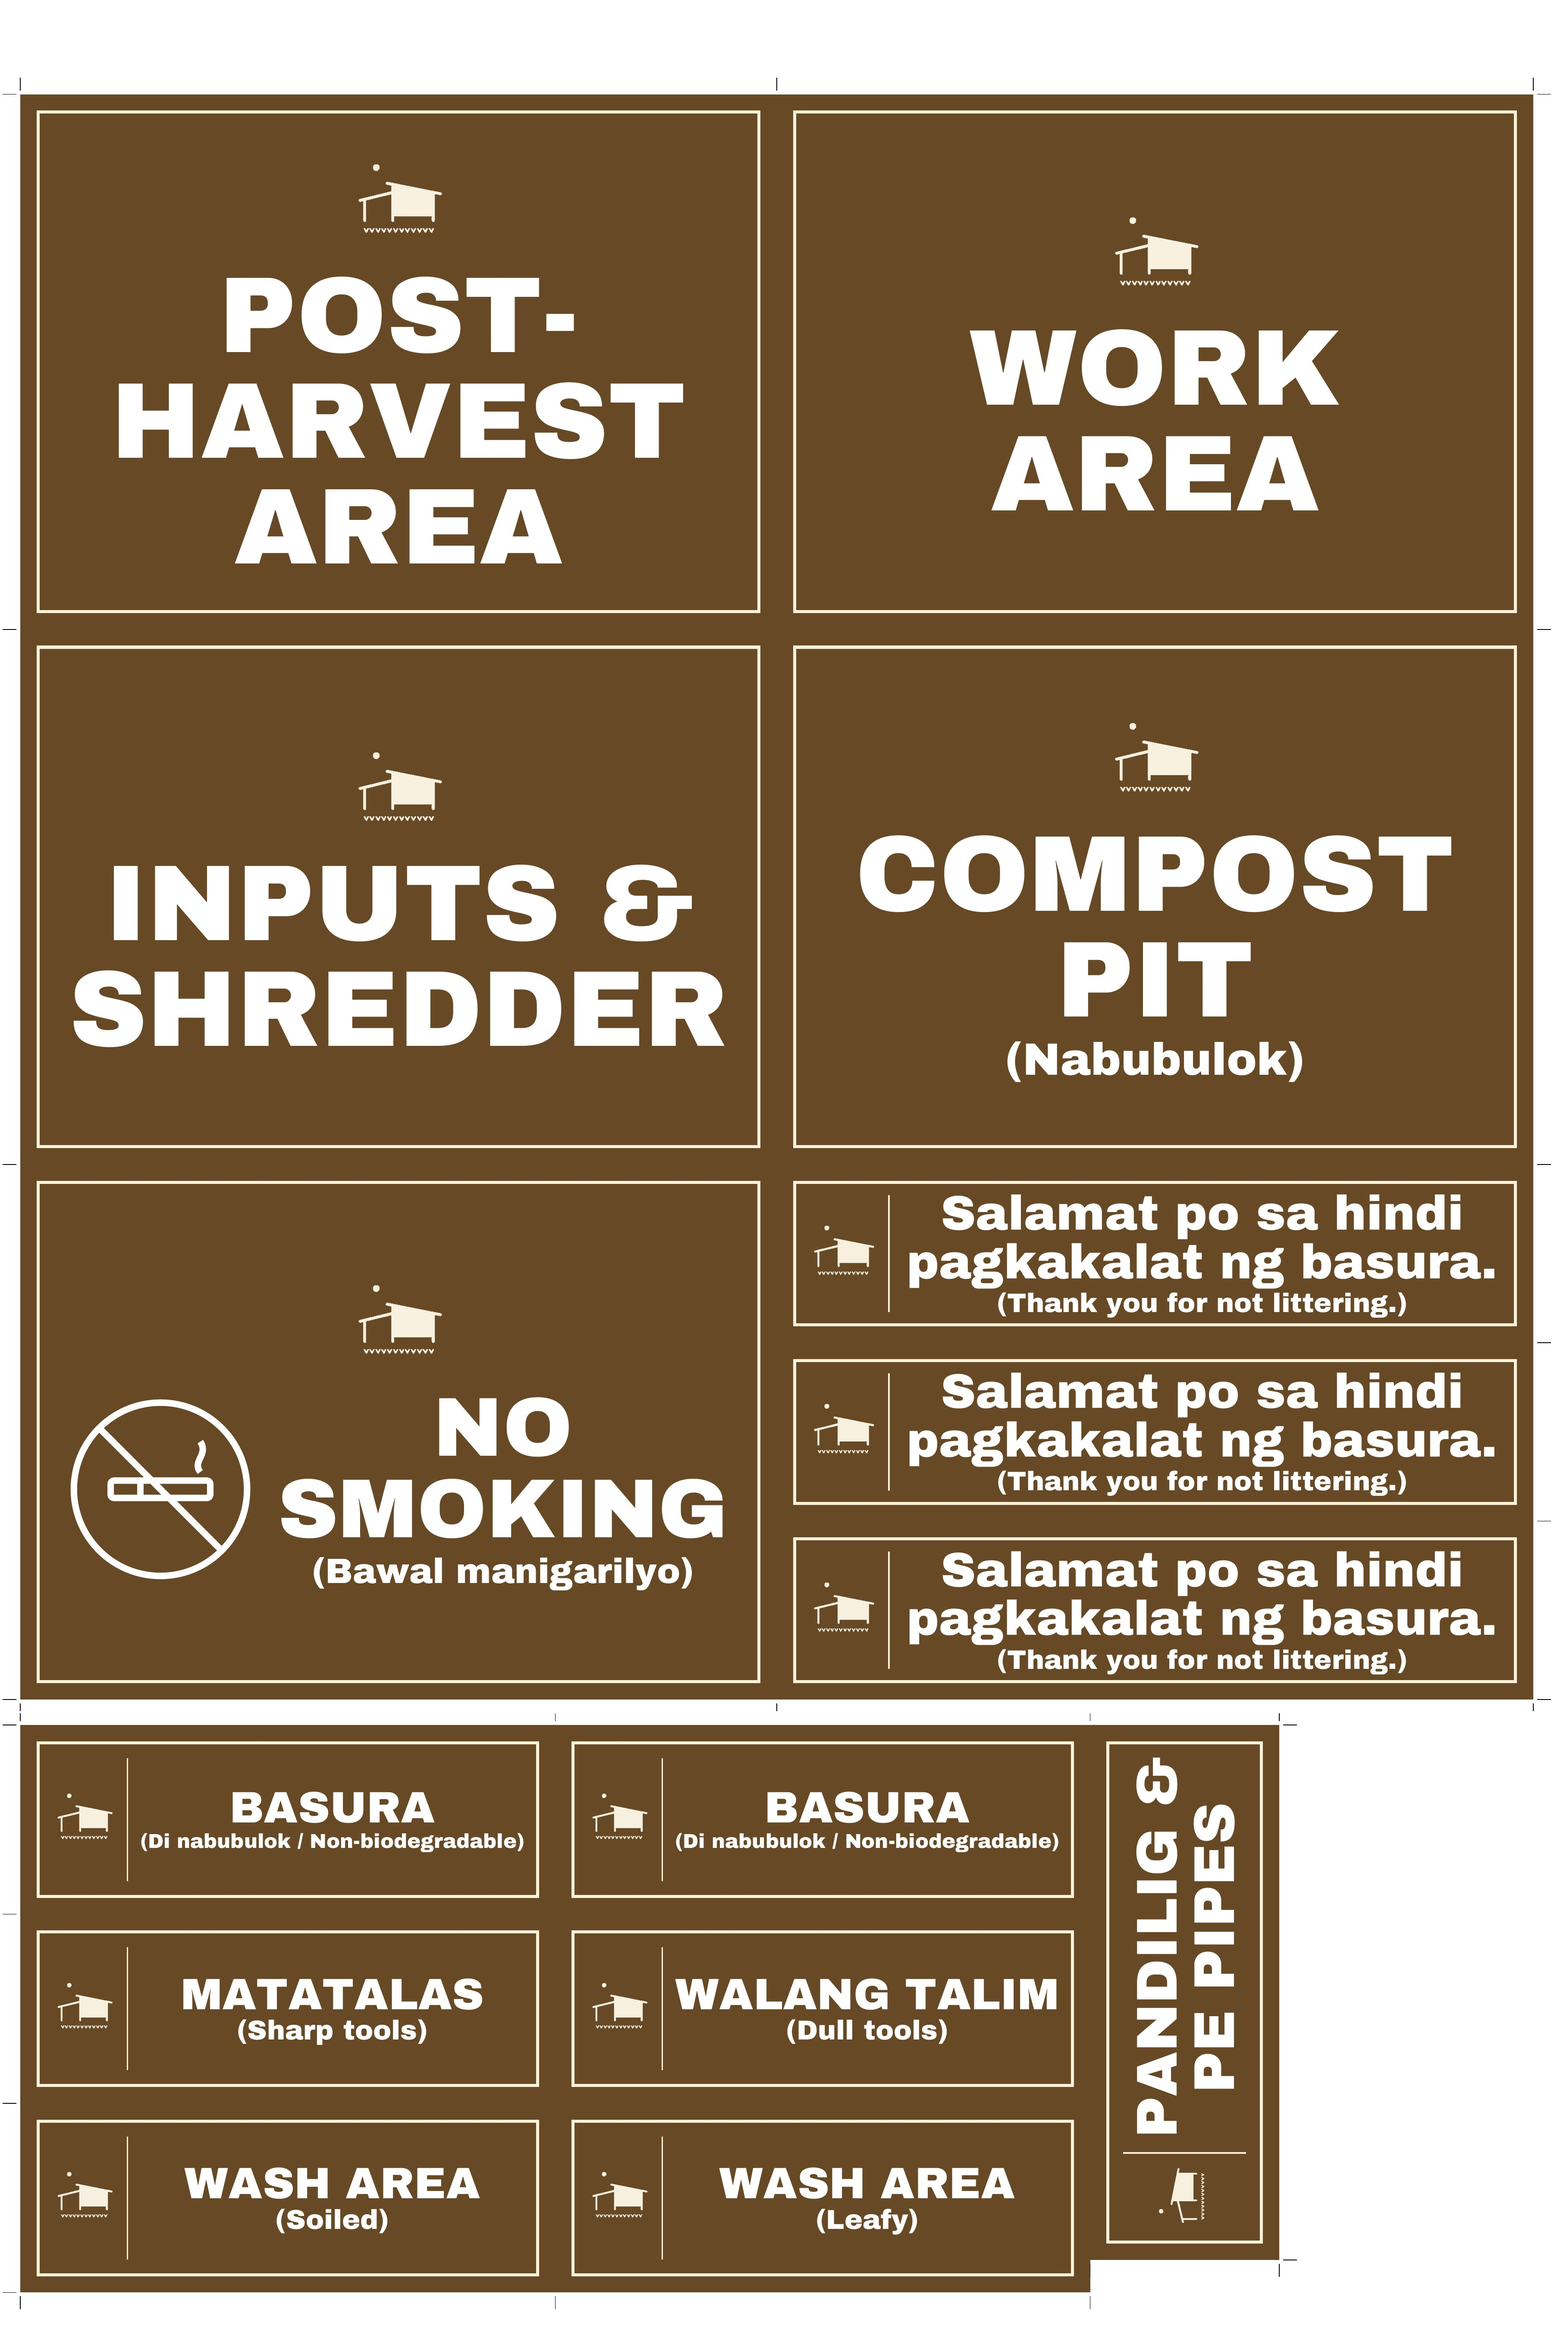
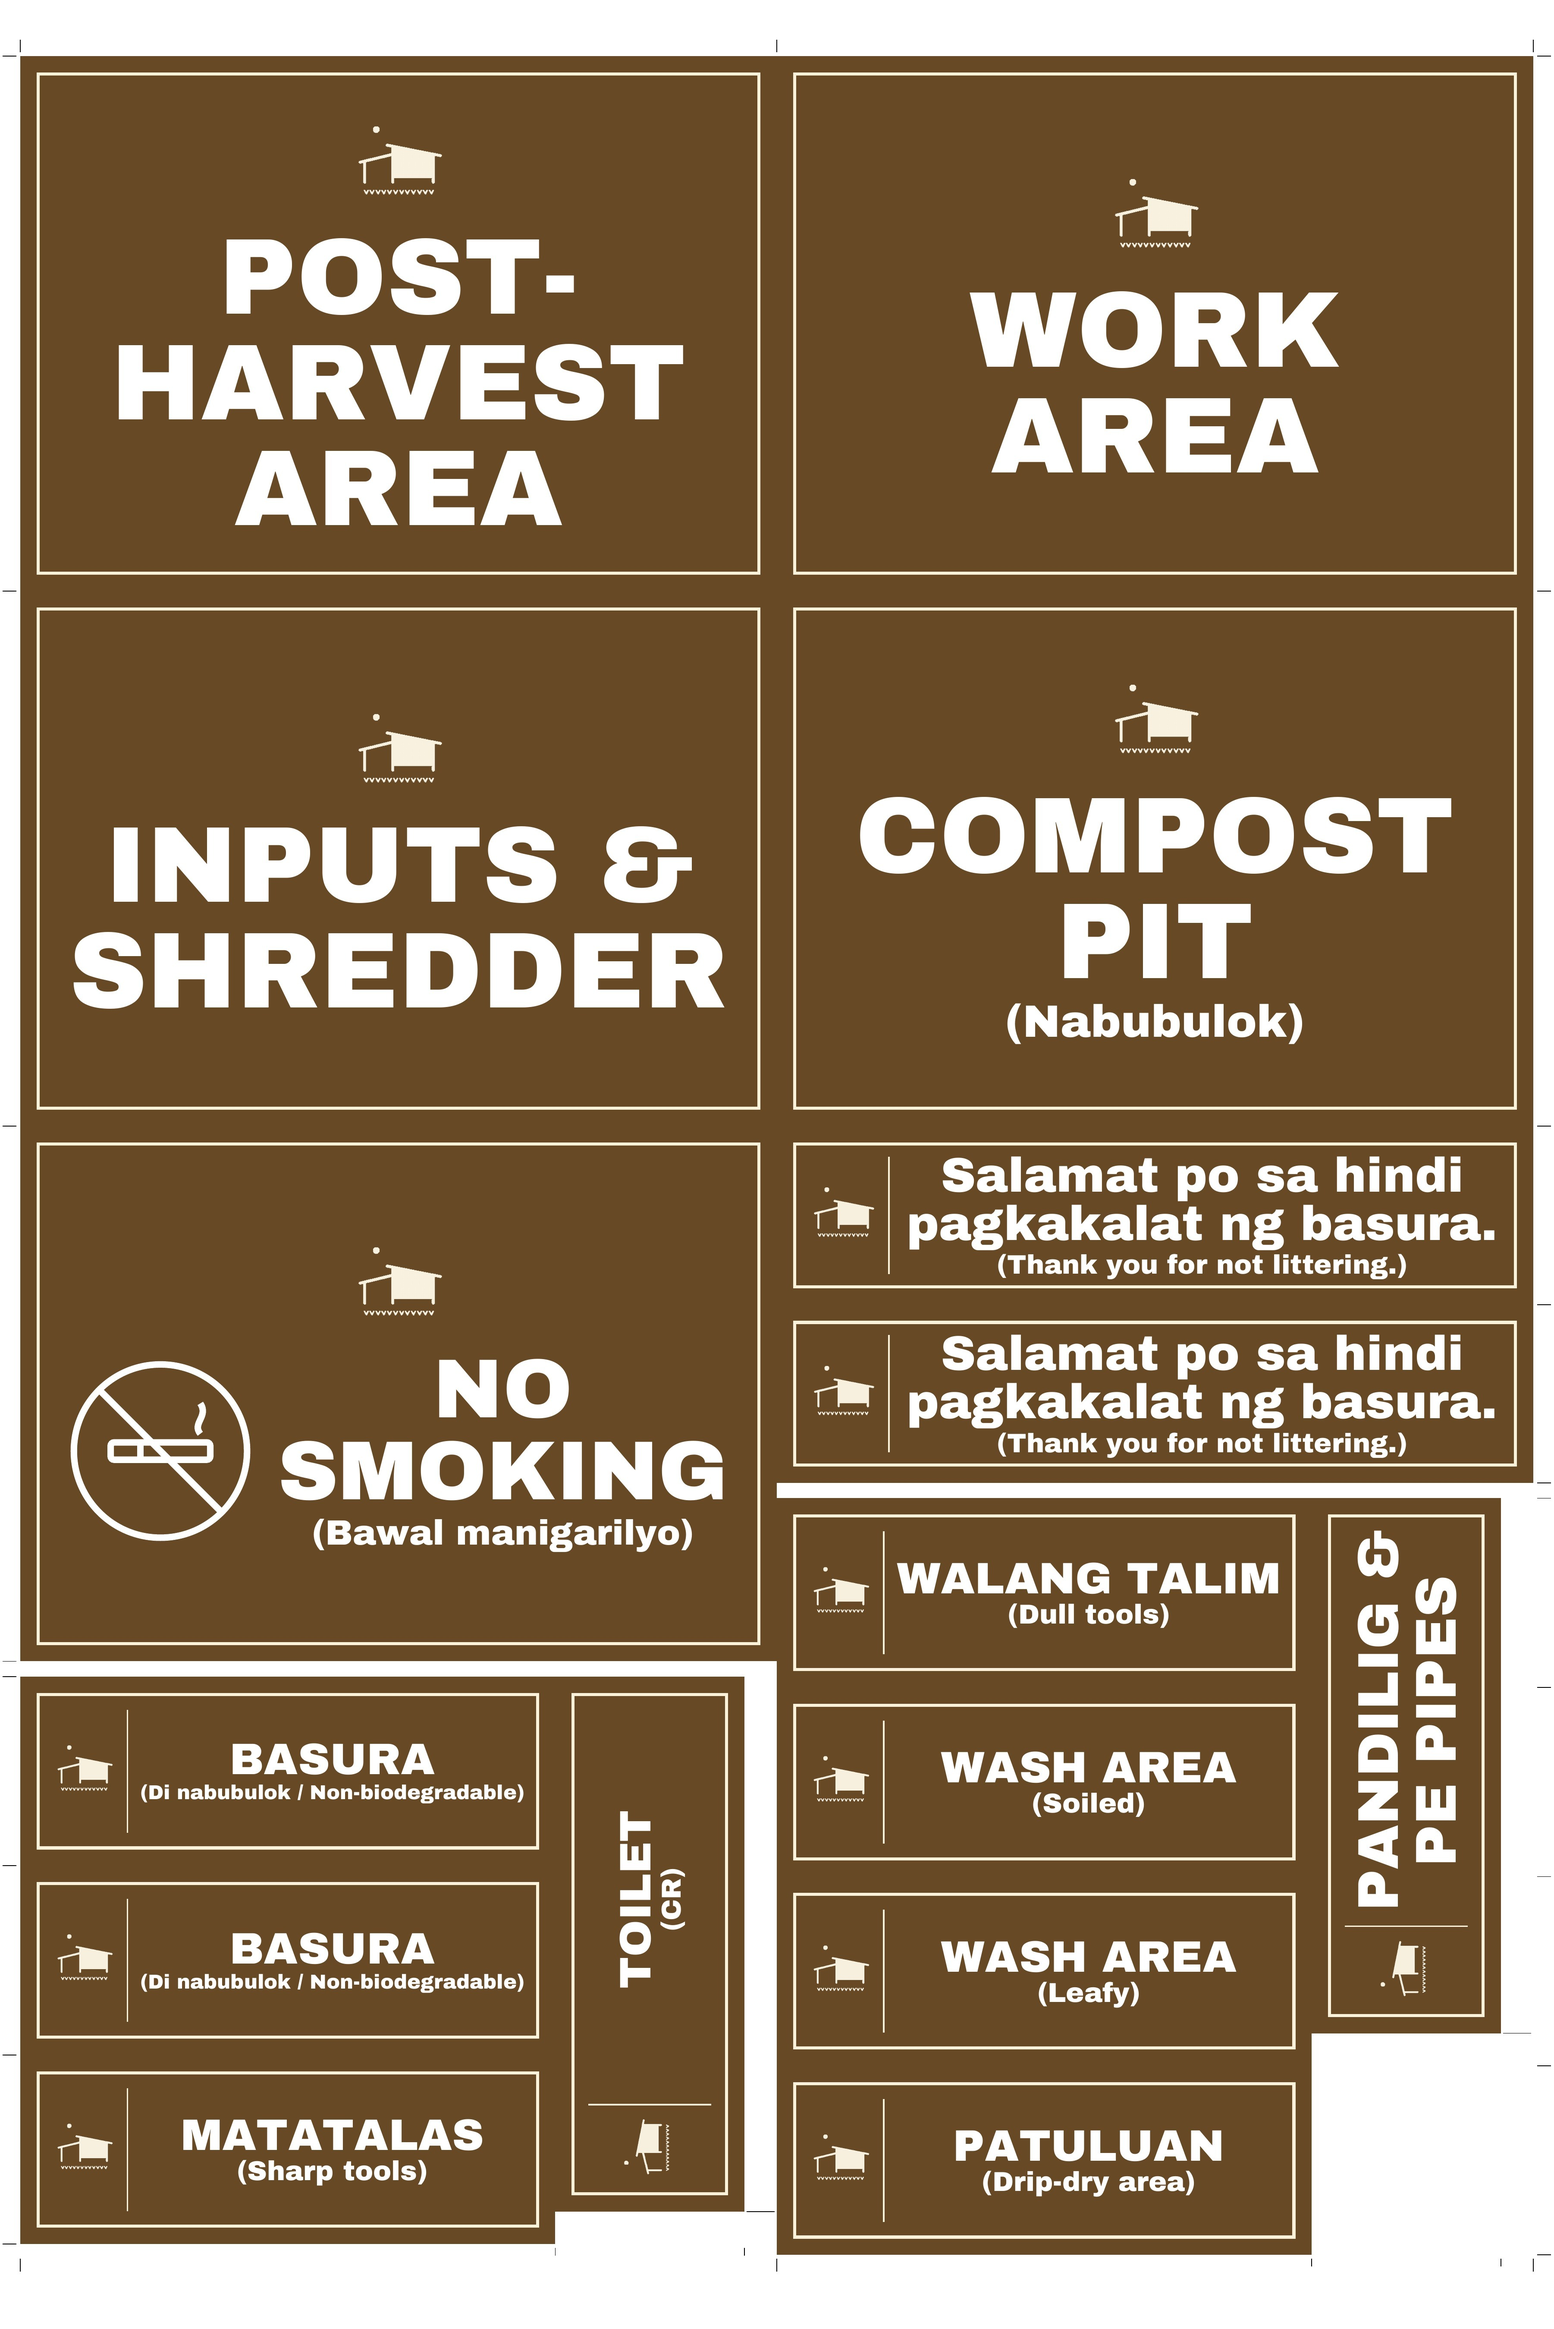
Add Toilet (CR) and Patuluan (Drip-dry area); 2 fence signs; tarp re-laid in two columns
Claude-Session: https://claude.ai/code/session_01DMCAWJmjMbTBJyh2Zs3QXd

Changed region(s): [[0.0, 0.0, 0.9947, 0.9959], [0.0311, 0.3112, 0.4974, 0.498]]

diff --git a/labels/make_area_signs.py b/labels/make_area_signs.py
@@ -527,6 +527,8 @@ SMALL = [
     dict(lines=["WASH AREA"], sub="(Soiled)"),
     dict(lines=["WASH AREA"], sub="(Leafy)"),
     dict(lines=["PANDILIG &", "PE PIPES"], sub=None),
+    dict(lines=["TOILET"], sub="(CR)"),
+    dict(lines=["PATULUAN"], sub="(Drip-dry area)"),
 ]
 
 
@@ -740,5 +742,107 @@ def main4():
         print(tarp4(style))
 
 
+# ---- Tarp v5 (Nov 25): two independent 297 mm columns, 2 fence signs, 9 small labels ----------
+def _rot(c, x, y, fn, *a):
+    """Draw a quarter-A4 label turned sideways: occupies x..x+QH, y..y+QW."""
+    c.saveState()
+    c.translate(x + QH, y)
+    c.rotate(90)
+    fn(c, *a)
+    c.restoreState()
+
+
+def tarp5(style):
+    SW, SH = 610 * mm, 914 * mm
+    X0 = (SW - 2 * A4W) / 2                 # 8 mm sides
+    TOP = SH - 22 * mm
+    GAP = 6 * mm
+    XL, XR = X0, X0 + A4W
+    by_name = {}
+    order = [s for s in SMALL]
+    left_h = order[0:3]                     # BASURA, BASURA, MATATALAS
+    right_h = order[3:6] + [order[8]]       # WALANG TALIM, WASH (Soiled), WASH (Leafy), PATULUAN
+    left_side = order[7]                    # TOILET (sideways)
+    right_side = order[6]                   # PANDILIG & PE PIPES (sideways)
+    out = os.path.join(HERE, f"tarp-area-signs-2x3ft-{style}.pdf")
+    c = canvas.Canvas(out, pagesize=(SW, SH))
+    c.setTitle(f"Essentialist Vegetable Farm signs and labels - tarpaulin 2 x 3 ft ({style})")
+    # left column: POST-HARVEST, INPUTS, NO SMOKING
+    for k, s in enumerate([SIGNS2[0], SIGNS2[2], SIGNS2[4]]):
+        place(c, XL, TOP - (k + 1) * A4H, draw_sign2, s, style)
+    lgb = TOP - 3 * A4H
+    lbt = lgb - GAP
+    for k, s in enumerate(left_h):
+        place(c, XL, lbt - (k + 1) * QH, draw_small, s, style)
+    _rot(c, XL + QW, lbt - QW, draw_small, left_side, style)
+    # right column: WORK, COMPOST, 2 fence signs
+    for k, s in enumerate([SIGNS2[1], SIGNS2[3]]):
+        place(c, XR, TOP - (k + 1) * A4H, draw_sign2, s, style)
+    for k in range(2):
+        place(c, XR, TOP - 2 * A4H - (k + 1) * FH, draw_fence, style)
+    rgb = TOP - 2 * A4H - 2 * FH
+    rbt = rgb - GAP
+    for k, s in enumerate(right_h):
+        place(c, XR, rbt - (k + 1) * QH, draw_small, s, style)
+    _rot(c, XR + QW, rbt - QW, draw_small, right_side, style)
+
+    # ---- cut marks
+    c.setStrokeColor(black)
+    c.setLineWidth(0.3 * mm)
+    ln, off = 5 * mm, 1.5 * mm
+    side = X0 - off - 1 * mm
+    def tick_v(x, y, down=True, L=ln):
+        c.line(x, y - off if down else y + off, x, (y - off - L) if down else (y + off + L))
+    def tick_h(x, y, left=True, L=side):
+        c.line(x - off if left else x + off, y, (x - off - L) if left else (x + off + L), y)
+    # 1. the long cut between the columns, and the outer edges
+    for x in (XL, XR, XR + A4W):
+        tick_v(x, TOP, down=False)
+    lbb, rbb = lbt - 3 * QH, rbt - 4 * QH
+    bottom = min(lbb, rbb)
+    for x in (XL, XR, XR + A4W):
+        tick_v(x, bottom)
+    # 2. left column cuts (marks on the left margin)
+    for y in [TOP, TOP - A4H, TOP - 2 * A4H, lgb, lbt] + [lbt - (k + 1) * QH for k in range(3)]:
+        tick_h(XL, y)
+    # 3. right column cuts (marks on the right margin)
+    for y in [TOP, TOP - A4H, TOP - 2 * A4H, TOP - 2 * A4H - FH, rgb, rbt] + [rbt - (k + 1) * QH for k in range(4)]:
+        tick_h(XR + A4W, y, left=False)
+    # 4. inside each small-label block: the vertical cut beside the sideways label, its far edge,
+    #    and the sideways label's bottom edge (ticks in the waste strip beside it)
+    for (x0, bt, bb) in ((XL, lbt, lbb), (XR, rbt, rbb)):
+        for x in (x0 + QW, x0 + QW + QH):
+            c.line(x, bb - off, x, bb - off - 3 * mm)
+        w = A4W - QW - QH                     # waste strip width (12.75 mm)
+        c.line(x0 + QW + QH + 0.8 * mm, bt - QW, x0 + QW + QH + w - 0.8 * mm, bt - QW)
+    c.showPage()
+    c.save()
+    return out
+
+
+def main5():
+    for style in STYLES:
+        c = canvas.Canvas(os.path.join(HERE, f"area-signs-a4-{style}.pdf"), pagesize=(A4W, A4H))
+        c.setTitle(f"Essentialist Vegetable Farm area signs (A4, {style})")
+        for s in SIGNS2:
+            draw_sign2(c, s, style)
+            c.showPage()
+        c.save()
+        c = canvas.Canvas(os.path.join(HERE, f"small-labels-quarter-a4-{style}.pdf"), pagesize=(A4H, A4W))
+        c.setTitle(f"Essentialist Vegetable Farm small labels (quarter A4, {style})")
+        for p in range(0, len(SMALL), 4):
+            for k, s in enumerate(SMALL[p:p + 4]):
+                place(c, 0, A4W - (k + 1) * QH, draw_small, s, style)
+            c.showPage()
+        c.save()
+        c = canvas.Canvas(os.path.join(HERE, f"fence-signs-third-a4-{style}.pdf"), pagesize=(A4W, A4H))
+        c.setTitle(f"Essentialist Vegetable Farm fence signs (1/3 A4, {style})")
+        for k in range(2):
+            place(c, 0, A4H - (k + 1) * FH, draw_fence, style)
+        c.showPage()
+        c.save()
+        print(tarp5(style))
+
+
 if __name__ == "__main__":
-    main4()
+    main5()
